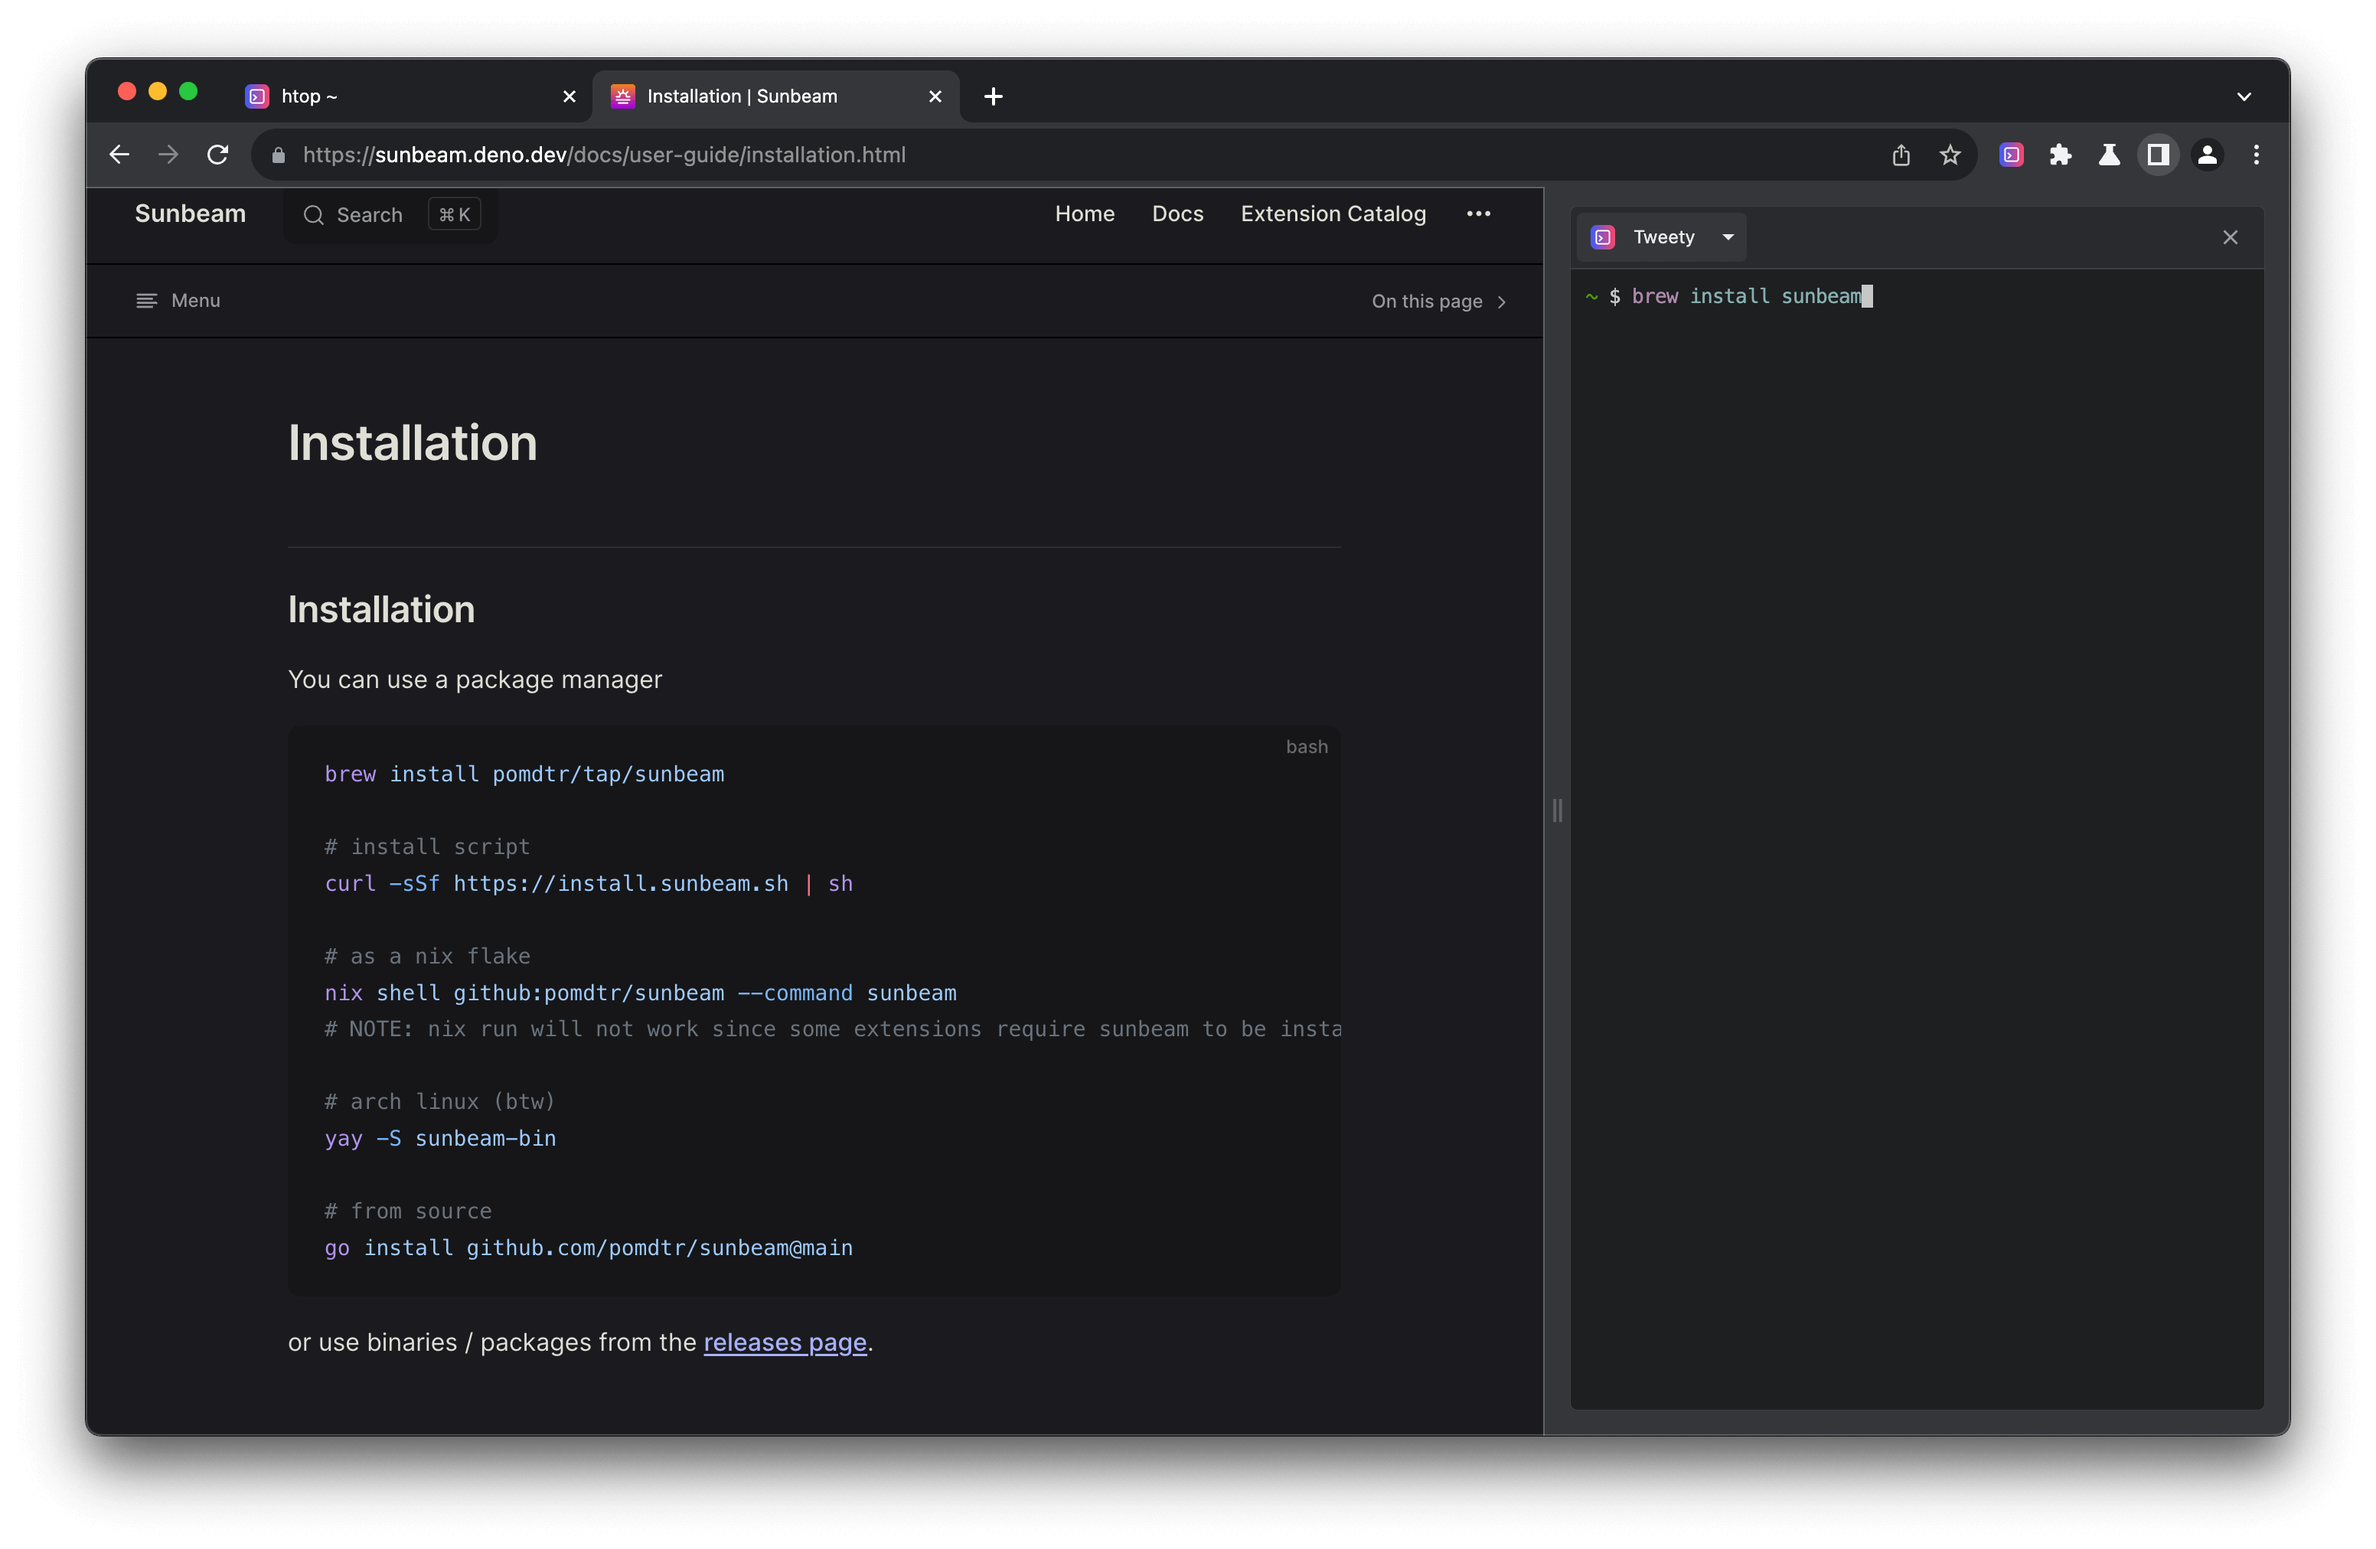
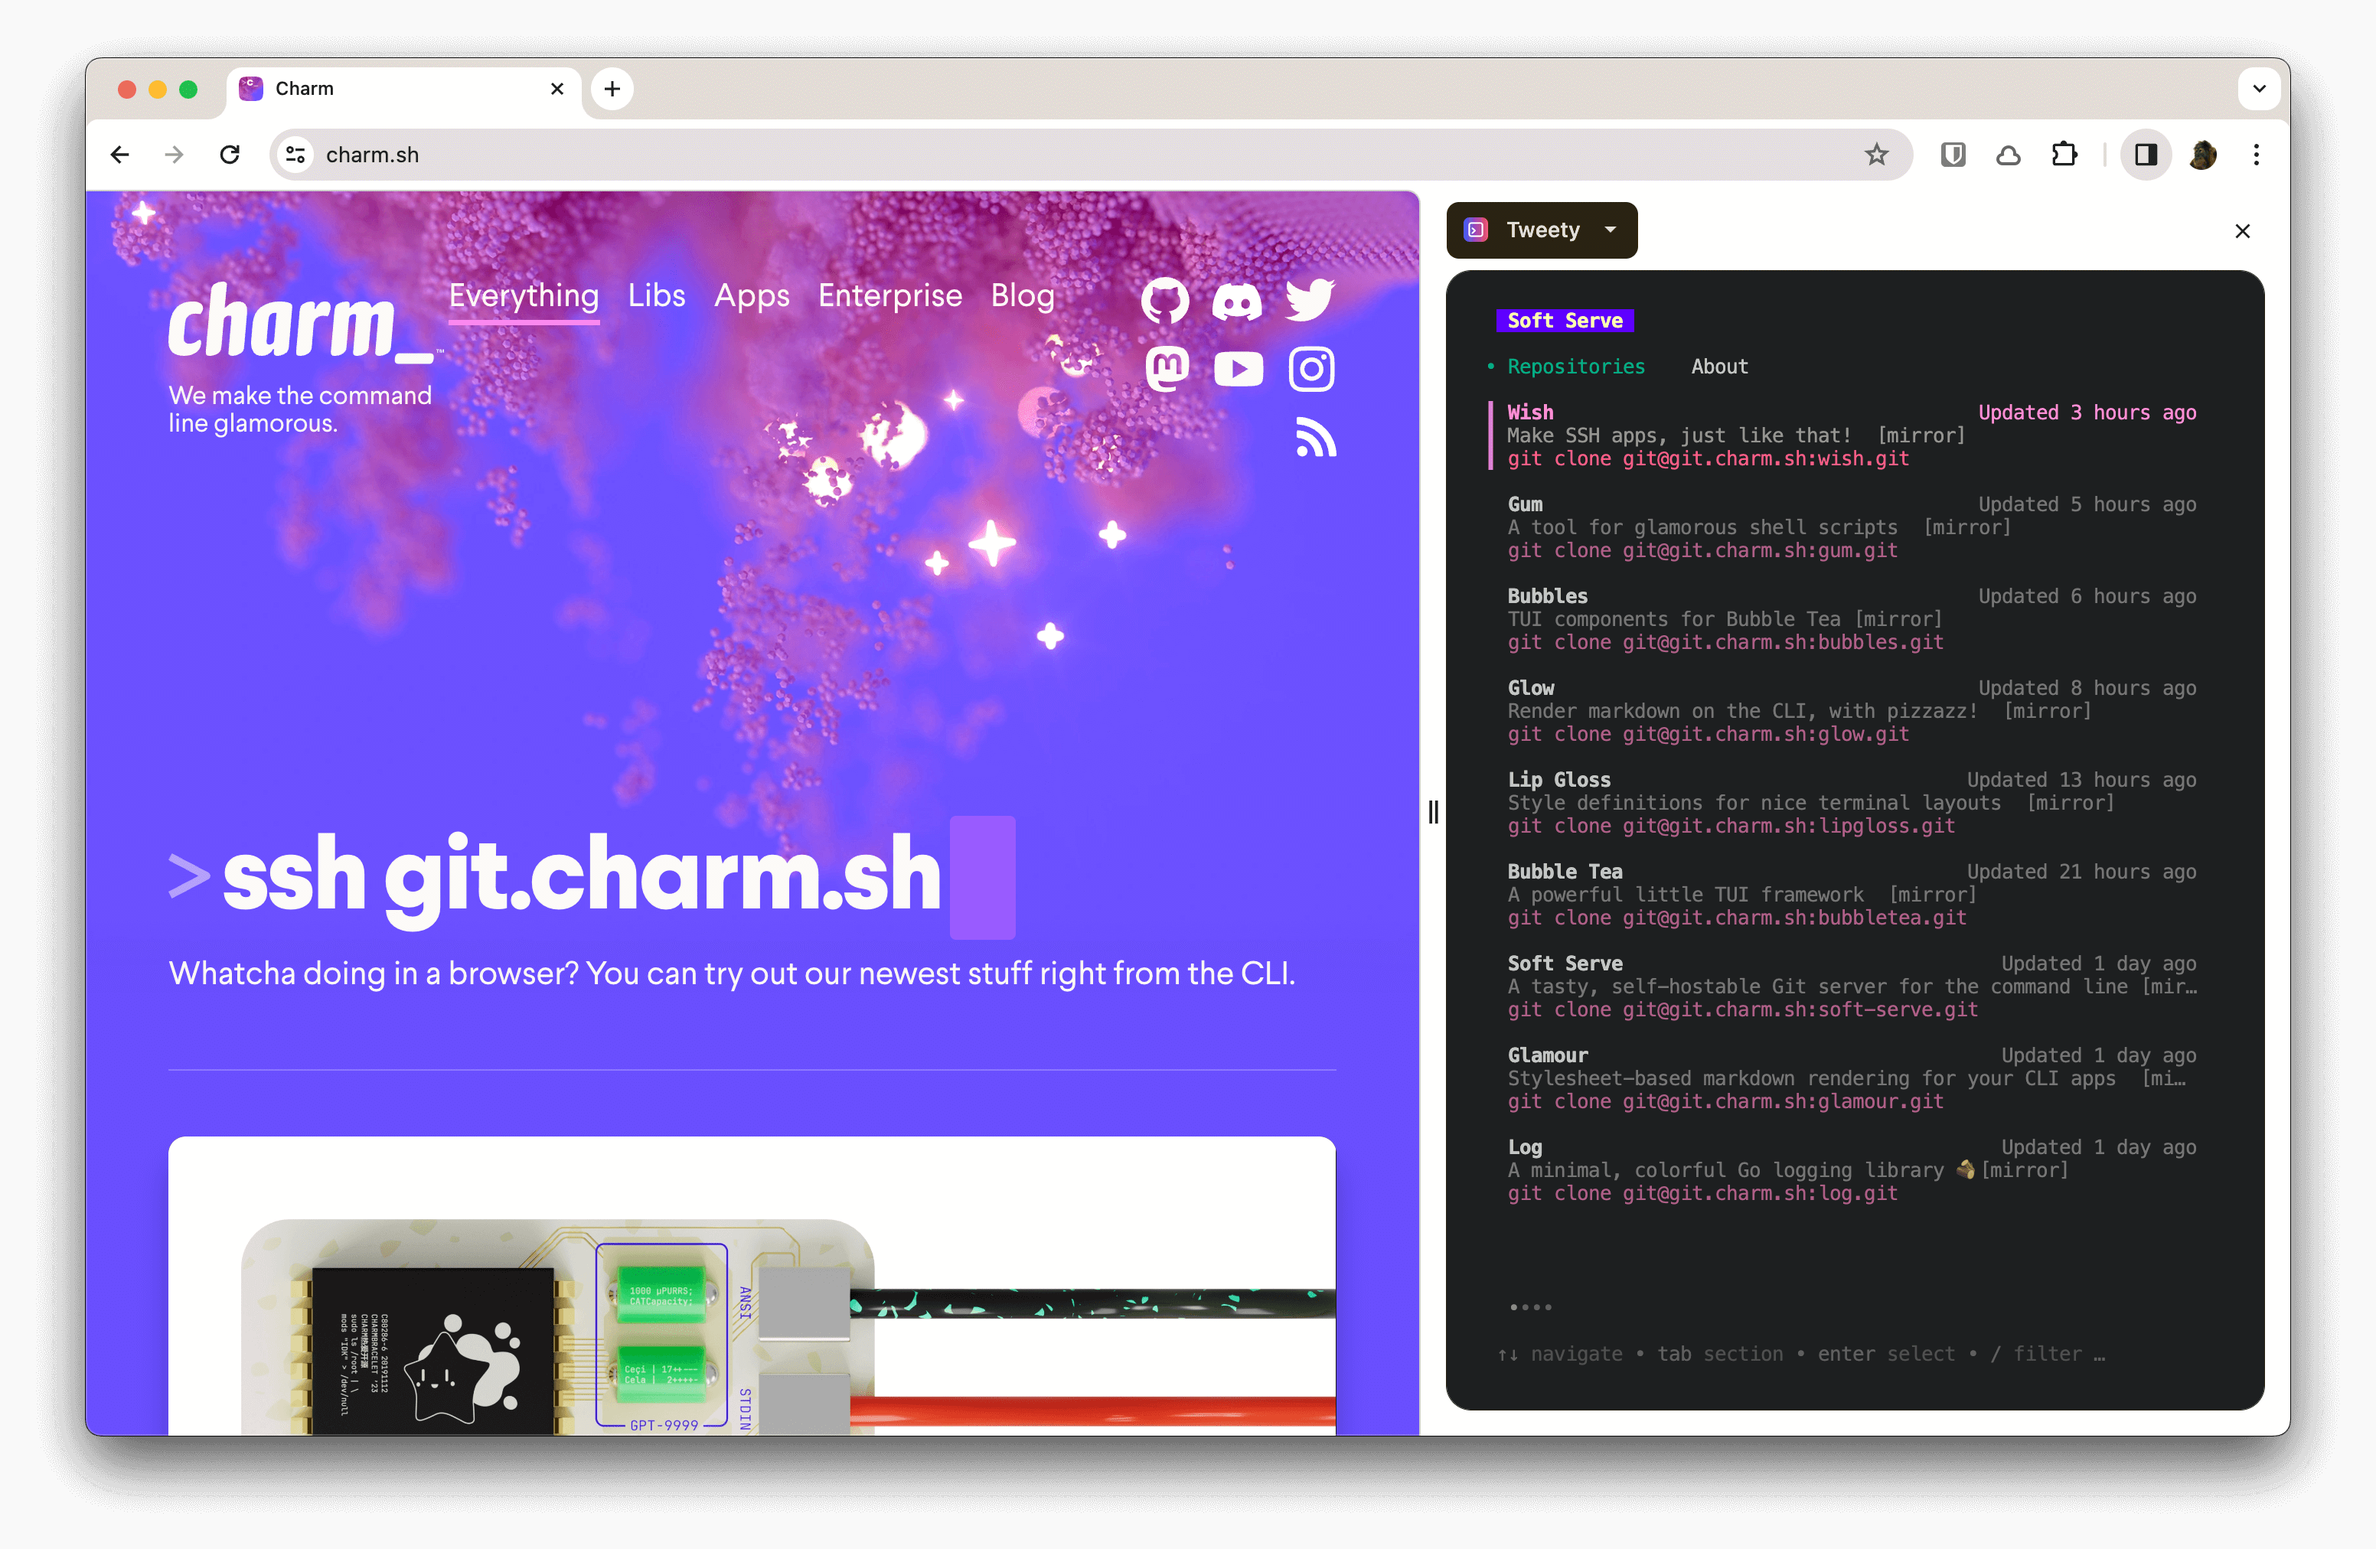
add reload prompt when no tweety window is found

diff --git a/frontend/src/terminal.ts b/frontend/src/terminal.ts
@@ -28,9 +28,8 @@ async function main() {
     }
 
     // check if tweety is running
-    try {
-        await fetch(new URL("/ping", origin))
-    } catch (e) {
+    const resp = await fetch(new URL("/ping", origin))
+    if (!resp.ok) {
         confirm("Tweety is not running. Reload?")
         window.close()
         return

diff --git a/README.md b/README.md
@@ -6,7 +6,7 @@ Minimize your context switching by interacting with your terminal directly from 
 
 ### Mix Web and Terminal tabs
 
-![tweety running from the browser](./static/tabs.png)
+![tweety running from the browser](./static/tabs.min.png)
 
 ### Side by side mode
 
@@ -123,3 +123,8 @@ custom path.
 ### Firefox version?
 
 Firefox should be quite easy to support, the browser integration is minimal. Contributions are welcome!
+
+### Windows version?
+
+The library used to create the terminal UI (xterm.js) does not support Windows yet.
+But it's planned, so stay tuned!
